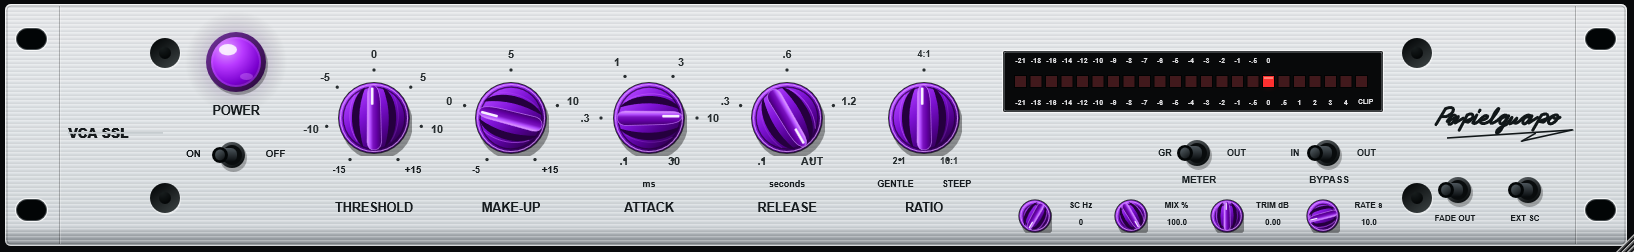
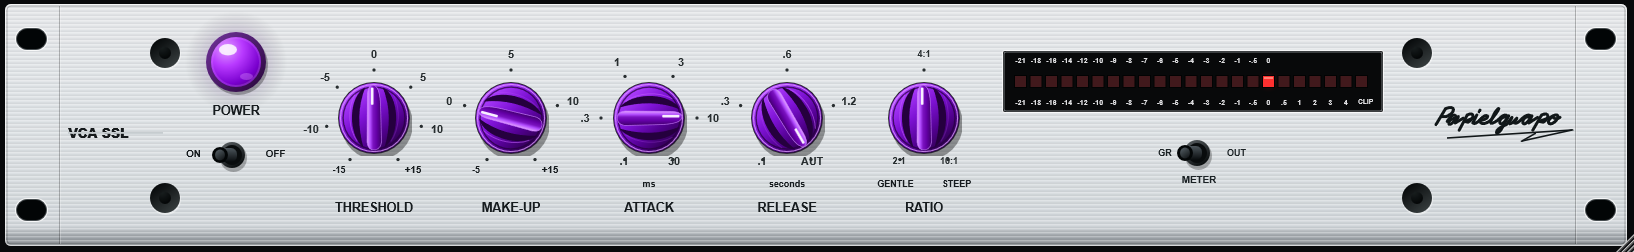
Simplify faceplate to five main knobs, Power and Meter

diff --git a/Source/PluginEditor.cpp b/Source/PluginEditor.cpp
@@ -103,27 +103,26 @@ void VCASSLLookAndFeel::drawToggleButton(juce::Graphics& g, juce::ToggleButton& 
 FaceplateComponent::FaceplateComponent(VCASSLProcessor& p):processor(p)
 {
     setLookAndFeel(&look);
-    const char* ids[]{"threshold","makeup","attack","release","ratio","scFilter","mix","trim","fadeRate"};
-    const char* names[]{"Threshold","Make-Up","Attack","Release","Ratio","SC Filter","Mix","Trim","Fade seconds"};
+    const char* ids[]{"threshold","makeup","attack","release","ratio"};
+    const char* names[]{"Threshold","Make-Up","Attack","Release","Ratio"};
     for(size_t i=0;i<knobs.size();++i)
     {
         auto& s=knobs[i];addAndMakeVisible(s);s.setName(names[i]);s.setTitle(names[i]);
         s.setSliderStyle(juce::Slider::RotaryHorizontalVerticalDrag);s.setTextBoxStyle(juce::Slider::NoTextBox,false,0,0);
         s.setRotaryParameters(juce::MathConstants<float>::pi*7/6,juce::MathConstants<float>::pi*17/6,true);
         s.setPopupDisplayEnabled(true,true,this);s.setMouseDragSensitivity(180);s.setScrollWheelEnabled(true);
-        s.setDoubleClickReturnValue(true,i==2?4.0:i==3?4.0:i==4?1.0:i==6?100.0:i==8?10.0:0.0);
+        s.setDoubleClickReturnValue(true,i==2?4.0:i==3?4.0:i==4?1.0:0.0);
         s.textFromValueFunction=[i](double v)
         {
             if(i==4) {const char* labels[]{"2:1","4:1","10:1"};return juce::String(labels[juce::jlimit(0,2,juce::roundToInt(v))]);}
             if(i==2) {const char* labels[]{"0.1 ms","0.3 ms","1 ms","3 ms","10 ms","30 ms"};return juce::String(labels[juce::jlimit(0,5,juce::roundToInt(v))]);}
             if(i==3) {const char* labels[]{"0.1 s","0.3 s","0.6 s","1.2 s","Auto"};return juce::String(labels[juce::jlimit(0,4,juce::roundToInt(v))]);}
-            if(i==5)return v<0.5?juce::String("OFF"):juce::String(juce::jmax(21.0,v),0)+" Hz";
-            return juce::String(v,1)+(i==6?" %":i==8?" s":" dB");
+            return juce::String(v,1)+" dB";
         };
         knobAttachments[i]=std::make_unique<SA>(processor.apvts,ids[i],s);
     }
-    const char* switchIds[]{"power","meterMode","bypass","fade","externalSC"};
-    const char* tips[]{"Power: on / dry passthrough","Meter: gain reduction / output","Bypass: compressor in / dry out","Autofade: out / in, duration set by RATE","External sidechain (enable bus in host)"};
+    const char* switchIds[]{"power","meterMode"};
+    const char* tips[]{"Power: on / dry passthrough","Meter: gain reduction / output"};
     for(size_t i=0;i<switches.size();++i) {auto& b=switches[i];addAndMakeVisible(b);b.setName(switchIds[i]);b.setTitle(tips[i]);b.setTooltip(tips[i]);b.setClickingTogglesState(true);if(i==0)b.getProperties().set("reverse",true);switchAttachments[i]=std::make_unique<BA>(processor.apvts,switchIds[i],b);}
     startTimerHz(60);
 }
@@ -132,11 +131,8 @@ void FaceplateComponent::resized()
 {
     constexpr int centres[]{374,511,649,787,924};
     for(size_t i=0;i<5;++i)knobs[i].setBounds(centres[i]-38,80,76,76);
-    for(int i=0;i<4;++i)knobs[static_cast<size_t>(i+5)].setBounds(1018+i*96,199,34,34);
-    switches[3].setBounds(1430,172,50,36); switches[4].setBounds(1500,172,50,36);
     switches[0].setBounds(204,137,50,36);
     switches[1].setBounds(1169,135,50,36);
-    switches[2].setBounds(1299,135,50,36);
 }
 void FaceplateComponent::timerCallback()
 {
@@ -232,15 +228,9 @@ void FaceplateComponent::paint(juce::Graphics& g)
     }
     paintMeter(g);
     g.setColour(colour(0xff171c1f));
-    const char* extra[]{"SC Hz","MIX %","TRIM dB","RATE s"};
-    for(int i=0;i<4;++i){text(g,extra[i],1052.0f+static_cast<float>(i)*96,198,57,14,9);text(g,knobs[static_cast<size_t>(i+5)].getTextFromValue(knobs[static_cast<size_t>(i+5)].getValue()),1050.0f+static_cast<float>(i)*96,215,62,14,9);}
-    text(g,"FADE OUT",1420,211,70,14,9);text(g,"EXT SC",1490,211,70,14,9);
-    for(int i=1;i<3;++i)
-    {
-        const float cx=1064+130.0f*static_cast<float>(i);
-        const char* lhs[]{"ON","GR","IN"};const char* rhs[]{"OFF","OUT","OUT"};const char* title[]{"","METER","BYPASS"};
-        g.setColour(colour(0xff1b2225));text(g,lhs[i],cx-44,145,30,15,10);text(g,rhs[i],cx+25,145,35,15,10);text(g,title[i],cx-36,171,82,18,11);
-    }
+    g.setColour(colour(0xff1b2225));
+    text(g,"GR",1150,145,30,15,10);text(g,"OUT",1219,145,35,15,10);
+    text(g,"METER",1158,171,82,18,11);
     // Hand-drawn vector script, independent of installed fonts.
     juce::Path signature;
     signature.startNewSubPath(0,22);signature.lineTo(12,2);signature.cubicTo(25,-3,25,7,13,12);signature.lineTo(7,12);

diff --git a/Source/PluginEditor.h b/Source/PluginEditor.h
@@ -23,12 +23,12 @@ private:
     void paintMeter(juce::Graphics&);
     VCASSLProcessor& processor;
     VCASSLLookAndFeel look;
-    std::array<juce::Slider,9> knobs;
-    std::array<juce::ToggleButton,5> switches;
+    std::array<juce::Slider,5> knobs;
+    std::array<juce::ToggleButton,2> switches;
     using SA = juce::AudioProcessorValueTreeState::SliderAttachment;
     using BA = juce::AudioProcessorValueTreeState::ButtonAttachment;
-    std::array<std::unique_ptr<SA>,9> knobAttachments;
-    std::array<std::unique_ptr<BA>,5> switchAttachments;
+    std::array<std::unique_ptr<SA>,5> knobAttachments;
+    std::array<std::unique_ptr<BA>,2> switchAttachments;
     float shownGr = 0, shownOut = -100;
     juce::TooltipWindow tooltips { this, 500 };
     JUCE_DECLARE_NON_COPYABLE_WITH_LEAK_DETECTOR(FaceplateComponent)

diff --git a/README.md b/README.md
@@ -10,7 +10,9 @@ Compresor de bus VCA original basado en el frontal vectorial de [FET67](https://
 
 ## Controles
 
-Threshold −15…+15 dBu; Make-Up −5…+15 dB; Attack 0.1/0.3/1/3/10/30 ms; Release 0.1/0.3/0.6/1.2 s/Auto; Ratio 2/4/10; SC Filter Off o 21…500 Hz (valores 1…20 equivalen a 21 Hz); Mix 0…100%; Trim −18…+18 dB; Rate 1…60 s. Sin modo Analog, saturación ni ruido añadido. Power y Bypass entregan señal seca; Meter alterna GR/OUT. FADE OUT activa fundido a cero; desactivarlo vuelve a unidad desde la posición actual. EXT SC utiliza el bus auxiliar cuando el host lo habilita; en caso contrario utiliza entrada interna. Doble clic restaura el valor inicial y el popup indica el valor exacto.
+El frontal contiene únicamente Threshold −15…+15 dBu, Make-Up −5…+15 dB, Attack 0.1/0.3/1/3/10/30 ms, Release 0.1/0.3/0.6/1.2 s/Auto y Ratio 2/4/10. POWER enciende/apaga el procesamiento y METER alterna GR/OUT. Sin modo Analog, saturación ni ruido añadido. Doble clic restaura el valor inicial y el popup indica el valor exacto.
+
+Se han retirado del frontal BYPASS, FADE, EXT SC y la fila SC Hz / MIX / TRIM / RATE. Los parámetros internos se conservan para compatibilidad con sesiones y automatización anteriores; en un estado nuevo están neutros: SC Off, Mix 100%, Trim 0 dB, Fade Off y detector interno. El bypass del DAW sigue disponible.
 
 Referencia de rangos: [manual oficial Waves](https://assets.wavescdn.com/pdf/plugins/ssl-g-master-buss-compressor.pdf). No incluye código, recursos ni presets de Waves. Modelo propio, sin afiliación ni certificación Waves/SSL. No se afirma equivalencia sonora 1:1. Auto, knee y autofade son implementaciones propias; se ha medido SSLComp Stereo V14.12 instalado para aproximar la calibración del detector, con Analog Off. El control Fade es de dos estados, sin el tercer estado de cancelación descrito en su manual.
 

diff --git a/Reference/RESULTADOS.md b/Reference/RESULTADOS.md
@@ -1,4 +1,4 @@
-# Verificación — VCA SSL 1.0
+# Verificación — VCA SSL 1.0.1
 
 Base FET67: commit ecd6fc7f37d69fa31560461fd76dd5188ffe9069. Compilación Windows x64, MSVC 19.51, Visual Studio 2026, JUCE local 9.0.5. VST3 y Standalone generados. No incluye instalador ni firma digital.
 
@@ -20,3 +20,7 @@ Referencia instalada: Waves SSLComp Stereo V14.12, Analog Off, Threshold 0, Make
 La diferencia máxima en estos ocho puntos es 0.755 dB. La rodilla y las envolventes son propias; esto no constituye equivalencia sonora 1:1. Sólo se ha ajustado la calibración a esta curva, no una matriz completa de ratios, umbrales, frecuencias y transitorios. La traza STEP de Waves se conserva como referencia sin afirmar coincidencia. La sección FREQUENCY del host heredado arrastra historia previa del detector y no se utiliza para caracterizar la respuesta en frecuencia.
 
 Preview.png se renderizó desde el editor real y se revisó visualmente. No se ha realizado prueba auditiva ni matriz de compatibilidad de DAWs.
+
+Versión 1.0.1: eliminado únicamente el botón BYPASS del frontal y sus etiquetas; se mantiene el parámetro de bypass del host para compatibilidad. DSP sin cambios.
+
+Frontal final 1.0.1: retirados también FADE, EXT SC y SC Hz/MIX/TRIM/RATE; permanecen cinco mandos, POWER y METER. Parámetros conservados para sesiones existentes.
